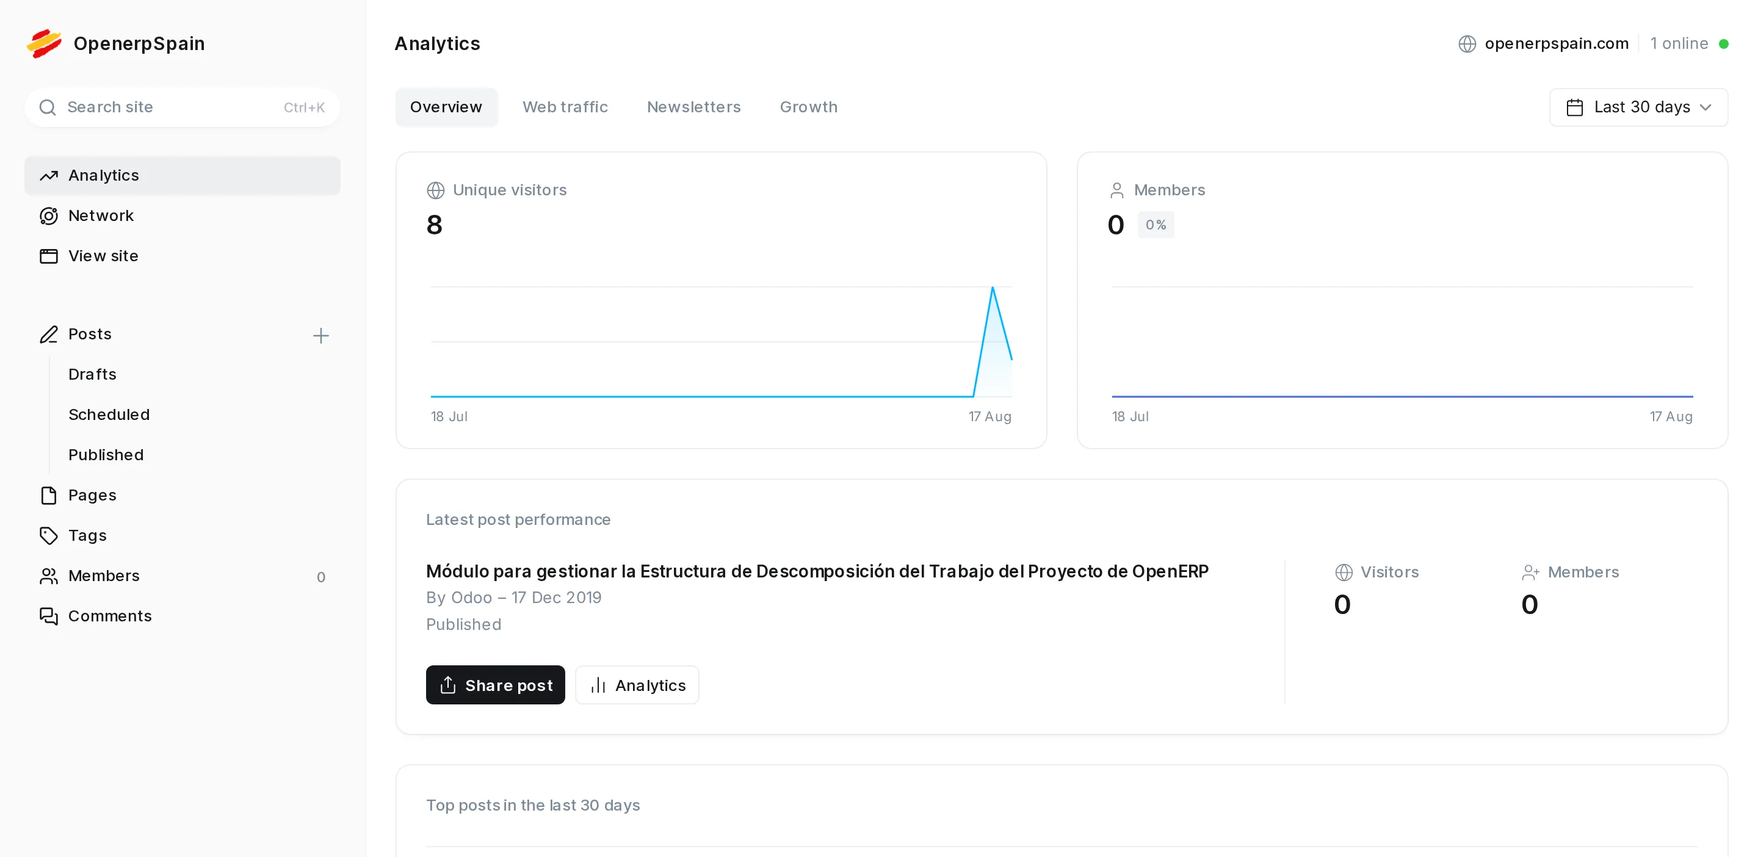
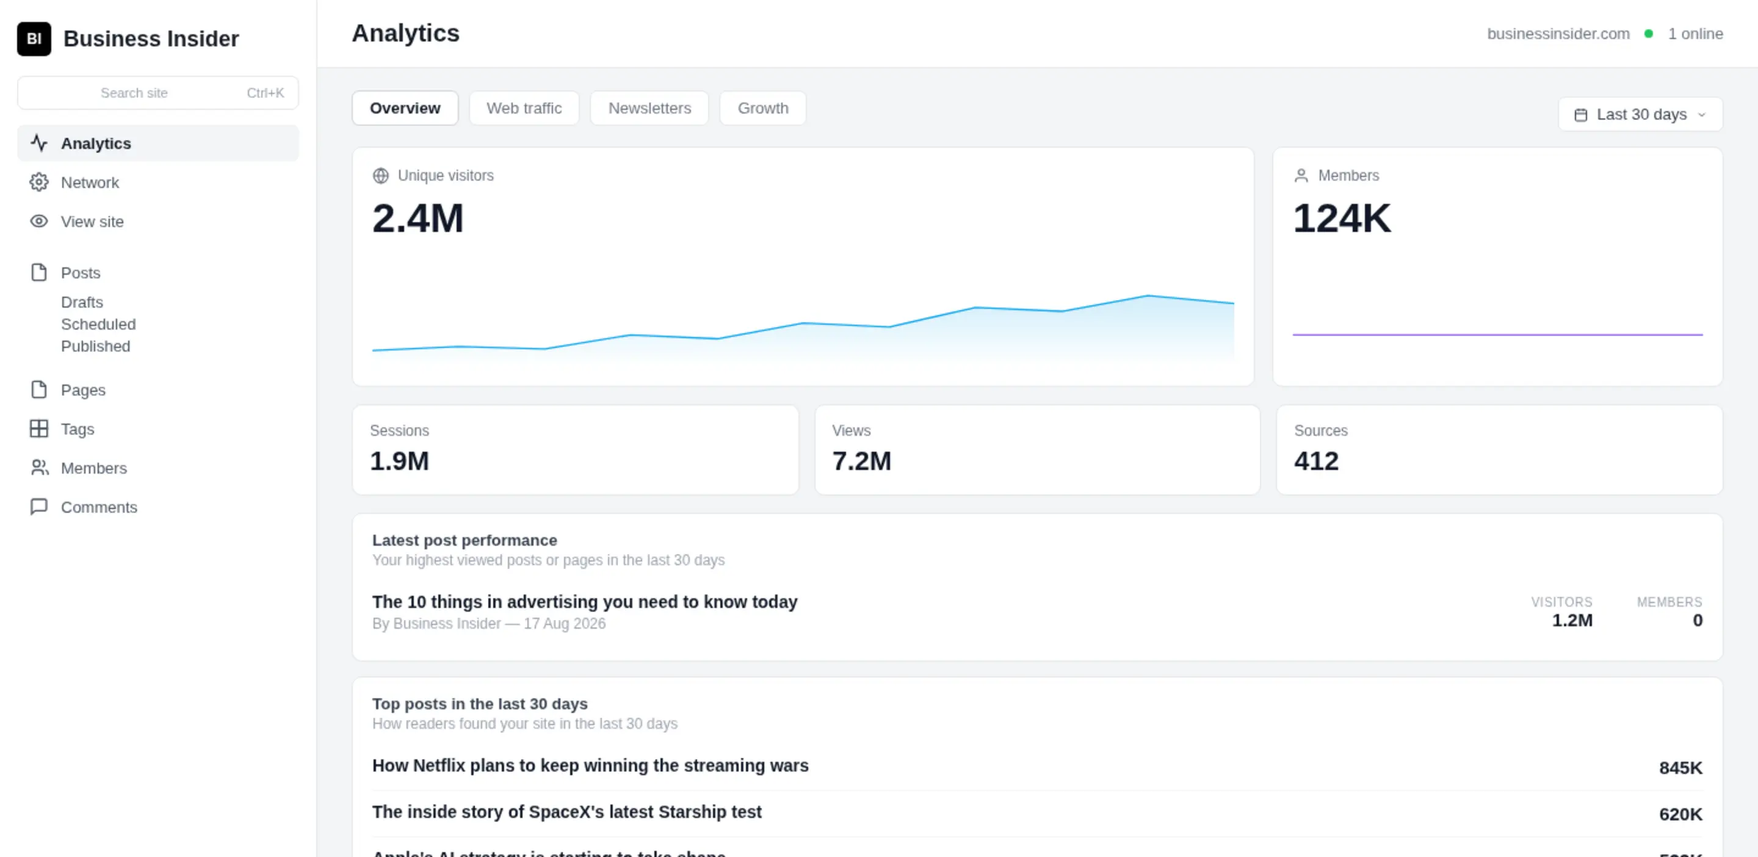
feat(landing): Business Insider screenshot, SEO copy and design polish
* feat(landing): single Wikipedia screenshot and remove empty field-note slots

* fix(landing): sync default fallback text with i18n for Wikipedia screenshot

* style(landing): horizontal section layout, centered FAQ, wider install card

* chore(landing): bump asset cache-bust to v5

* feat(landing): SEO titles and descriptions for tinybird alternative / ghost analytics keywords

* feat(landing): screenshot and copy now show Business Insider dashboard

* docs(readme): mark v0.5.0 released and link to live landing

---------

diff --git a/landing/index.html b/landing/index.html
@@ -3,8 +3,8 @@
 <head>
   <meta charset="UTF-8" />
   <meta name="viewport" content="width=device-width, initial-scale=1.0" />
-  <title>GhostBird: recambio libre y autoalojado de Tinybird para Ghost</title>
-  <meta name="description" content="Pieza de sustitución autoalojada para las estadísticas nativas de Ghost 6.x. Un binario Go, un fichero SQLite, AGPL-3.0 y cero telemetría." />
+  <title>GhostBird: alternativa libre y autoalojada a Tinybird para Ghost</title>
+  <meta name="description" content="Reemplazo abierto y autoalojado para las estadísticas nativas de Ghost 6.x. Alternativa a Tinybird con un binario Go, SQLite y AGPL-3.0. Sin telemetría." />
   <meta name="theme-color" content="#0B1020" />
   <meta name="robots" content="index, follow" />
   <link rel="canonical" href="https://ghostbird.cloudless.club/" />
@@ -13,8 +13,8 @@
   <link rel="alternate" hreflang="x-default" href="https://ghostbird.cloudless.club/" />
   <meta property="og:type" content="website" />
   <meta property="og:site_name" content="GhostBird" />
-  <meta property="og:title" content="GhostBird: recambio libre y autoalojado de Tinybird para Ghost" />
-  <meta property="og:description" content="Pieza de sustitución autoalojada para las estadísticas nativas de Ghost 6.x. Un binario Go, un fichero SQLite, AGPL-3.0 y cero telemetría." />
+  <meta property="og:title" content="GhostBird: alternativa libre y autoalojada a Tinybird para Ghost" />
+  <meta property="og:description" content="Reemplazo abierto y autoalojado para las estadísticas nativas de Ghost 6.x. Alternativa a Tinybird con un binario Go, SQLite y AGPL-3.0. Sin telemetría." />
   <meta property="og:url" content="https://ghostbird.cloudless.club/" />
   <meta property="og:image" content="https://ghostbird.cloudless.club/assets/og.png" />
   <meta property="og:image:width" content="1200" />
@@ -23,14 +23,14 @@
   <meta property="og:locale" content="es_ES" />
   <meta property="og:locale:alternate" content="en_US" />
   <meta name="twitter:card" content="summary_large_image" />
-  <meta name="twitter:title" content="GhostBird: recambio libre y autoalojado de Tinybird para Ghost" />
-  <meta name="twitter:description" content="Pieza de sustitución autoalojada para las estadísticas nativas de Ghost 6.x. Un binario Go, un fichero SQLite, AGPL-3.0 y cero telemetría." />
+  <meta name="twitter:title" content="GhostBird: alternativa libre y autoalojada a Tinybird para Ghost" />
+  <meta name="twitter:description" content="Reemplazo abierto y autoalojado para las estadísticas nativas de Ghost 6.x. Alternativa a Tinybird con un binario Go, SQLite y AGPL-3.0. Sin telemetría." />
   <meta name="twitter:image" content="https://ghostbird.cloudless.club/assets/og.png" />
   <link rel="icon" type="image/svg+xml" href="assets/favicon.svg" />
   <link rel="preconnect" href="https://fonts.googleapis.com" />
   <link rel="preconnect" href="https://fonts.gstatic.com" crossorigin />
   <link href="https://fonts.googleapis.com/css2?family=Sora:wght@600;700;800&family=Inter:wght@400;500;600&display=swap" rel="stylesheet" />
-  <link rel="stylesheet" href="styles.css?v=3" />
+  <link rel="stylesheet" href="styles.css?v=6" />
   <script type="application/ld+json">
   {
     "@context": "https://schema.org",
@@ -63,16 +63,7 @@
         "url": "https://ghostbird.cloudless.club/assets/shots/dashboard.webp",
         "width": 2880,
         "height": 1404,
-        "caption": "Overview: visitors, sessions y fuentes, del dashboard nativo de Ghost alimentado por GhostBird en producción"
-      },
-      {
-        "@type": "ImageObject",
-        "name": "Ghost dashboard web traffic fed by GhostBird",
-        "contentUrl": "https://ghostbird.cloudless.club/assets/shots/webtraffic.webp",
-        "url": "https://ghostbird.cloudless.club/assets/shots/webtraffic.webp",
-        "width": 2880,
-        "height": 1404,
-        "caption": "Web traffic: audiencias y desglose, del dashboard nativo de Ghost alimentado por GhostBird en producción"
+        "caption": "Overview: unique visitors, sessions, sources and top posts for Business Insider, from the native Ghost dashboard fed by GhostBird"
       },
       {
         "@type": "FAQPage",
@@ -179,7 +170,7 @@
         <div class="hero-copy">
           <p class="eyebrow-pill" data-reveal><span class="pulse-dot" aria-hidden="true"></span><span data-i18n="hero.eyebrow">Self-hosted · AGPL-3.0</span></p>
           <h1 class="hero-title" data-reveal><span data-i18n="hero.h1a">Estadísticas de Ghost,</span> <span class="grad-text" data-i18n="hero.h1g">autoalojadas</span></h1>
-          <p class="hero-sub" data-i18n="hero.sub" data-reveal>Sustituye al cloud propietario detrás de las estadísticas de Ghost 6: un binario Go, un fichero SQLite y el dashboard de siempre, leyendo de tu servidor.</p>
+          <p class="hero-sub" data-i18n="hero.sub" data-reveal>Sustituye al cloud propietario detrás de las estadísticas de Ghost 6: alternativa libre y autoalojada a Tinybird, con un binario Go, SQLite y el dashboard de siempre.</p>
           <div class="cta-row" data-reveal>
             <a class="btn btn-primary" href="#install"><span data-i18n="hero.cta1">Instalar</span><svg class="icon" aria-hidden="true"><use href="#i-arrow"/></svg></a>
             <a class="btn btn-ghost" href="#how" data-i18n="hero.cta2">Cómo funciona</a>
@@ -322,32 +313,20 @@
       <div class="sec-head">
         <p class="eyebrow" data-i18n="gallery.eyebrow">Así se ve</p>
         <h2 id="gal-title" data-i18n="gallery.title">No es un mockup</h2>
-        <p class="gal-sub" data-i18n="gallery.sub">Estas capturas salen del dashboard nativo de Ghost (Ghost 6.57) de un sitio real en producción, alimentado por GhostBird. Sin retoques.</p>
+        <p class="gal-sub" data-i18n="gallery.sub">Captura del panel nativo de Ghost (Ghost 6.57) alimentado por GhostBird, simulando datos de Business Insider: 2,4 M de visitantes únicos, sesiones, fuentes y posts destacados.</p>
       </div>
       <div class="shots-grid" data-reveal-group>
         <figure class="shot-card glass" data-reveal>
           <div class="shot-bar">
             <span class="mock-dots" aria-hidden="true"><i></i><i></i><i></i></span>
-            <span class="shot-domain mono">ghost.openerpspain.com</span>
+            <span class="shot-domain mono">businessinsider.com</span>
             <span class="shot-zoom" aria-hidden="true"><svg class="icon"><use href="#i-maximize"/></svg></span>
           </div>
           <button class="shot-btn" type="button" data-shot="dashboard" aria-label="Ampliar la captura: overview" data-i18n-aria="gallery.open1">
-            <img data-src="assets/shots/dashboard.webp" alt="Captura del dashboard de Ghost: overview con visitantes únicos, sesiones y fuentes de tráfico" data-i18n-alt="gallery.alt1" width="1440" height="702" loading="lazy" decoding="async">
-            <noscript><style>.shot-btn img[data-src]{display:none}</style><img src="assets/shots/dashboard.webp" alt="Captura del dashboard de Ghost: overview con visitantes únicos, sesiones y fuentes de tráfico" width="1440" height="702" loading="lazy"></noscript>
+            <img data-src="assets/shots/dashboard.webp" alt="Captura del dashboard de Ghost: overview con 2,4 M de visitantes únicos, sesiones y fuentes de tráfico de Business Insider" data-i18n-alt="gallery.alt1" width="1440" height="702" loading="lazy" decoding="async">
+            <noscript><style>.shot-btn img[data-src]{display:none}</style><img src="assets/shots/dashboard.webp" alt="Captura del dashboard de Ghost: overview con 2,4 M de visitantes únicos, sesiones y fuentes de tráfico de Business Insider" width="1440" height="702" loading="lazy"></noscript>
           </button>
-          <figcaption data-i18n="gallery.cap1">Overview: visitors, sessions y fuentes</figcaption>
-        </figure>
-        <figure class="shot-card glass" data-reveal>
-          <div class="shot-bar">
-            <span class="mock-dots" aria-hidden="true"><i></i><i></i><i></i></span>
-            <span class="shot-domain mono">ghost.openerpspain.com</span>
-            <span class="shot-zoom" aria-hidden="true"><svg class="icon"><use href="#i-maximize"/></svg></span>
-          </div>
-          <button class="shot-btn" type="button" data-shot="webtraffic" aria-label="Ampliar la captura: web traffic" data-i18n-aria="gallery.open2">
-            <img data-src="assets/shots/webtraffic.webp" alt="Captura del dashboard de Ghost: web traffic con audiencias y desglose por fuente" data-i18n-alt="gallery.alt2" width="1440" height="702" loading="lazy" decoding="async">
-            <noscript><style>.shot-btn img[data-src]{display:none}</style><img src="assets/shots/webtraffic.webp" alt="Captura del dashboard de Ghost: web traffic con audiencias y desglose por fuente" width="1440" height="702" loading="lazy"></noscript>
-          </button>
-          <figcaption data-i18n="gallery.cap2">Web traffic: audiencias y desglose</figcaption>
+          <figcaption data-i18n="gallery.cap1">Overview: visitantes, sesiones y fuentes de Business Insider</figcaption>
         </figure>
       </div>
     </section>
@@ -362,21 +341,6 @@
         <div class="stat glass" data-reveal><span class="stat-num-wrap"><span aria-hidden="true">&lt;</span><span class="stat-num" data-target="10">10</span><span aria-hidden="true">MB</span></span><span class="stat-label" data-i18n="st.4">de RAM medidos en producción</span></div>
         <div class="stat glass" data-reveal><span class="stat-num" data-target="0">0</span><span class="stat-label" data-i18n="st.5">conexiones salientes</span></div>
         <div class="stat glass" data-reveal><span class="stat-num-wrap"><span class="stat-num" data-target="100">100</span><span aria-hidden="true">%</span></span><span class="stat-label" data-i18n="st.6">suite de tests del original, en verde</span></div>
-      </div>
-    </section>
-
-    <!-- SLOT 1: ideas del propietario (tras stats) -->
-    <!--
-      SLOT DE CONTENIDO 1 (data-slot="field-notes-1")
-      Hueco reservado para las ideas de temas del propietario.
-      Para rellenar: sustituir el párrafo interior por el contenido final
-      (unos 2 párrafos o una lista) manteniendo la clase .slot. Borrar este
-      comentario al rellenar.
-    -->
-    <section class="sec slot" data-slot="field-notes-1" id="notas-1">
-      <div class="slot-card glass" data-reveal>
-        <h2 class="slot-tag" data-i18n="slotA.tag">Espacio reservado · Notas de campo 1</h2>
-        <p class="slot-ph" data-i18n="slotA.p">Hueco para el contenido que decida el propietario: temas, casos y observaciones.</p>
       </div>
     </section>
 
@@ -508,19 +472,6 @@
       </div>
     </section>
 
-    <!-- SLOT 2: ideas del propietario (tras FAQ) -->
-    <!--
-      SLOT DE CONTENIDO 2 (data-slot="field-notes-2")
-      Segundo hueco para temas del propietario, antes del CTA final.
-      Misma mecánica que el slot 1.
-    -->
-    <section class="sec slot" data-slot="field-notes-2" id="notas-2">
-      <div class="slot-card glass" data-reveal>
-        <h2 class="slot-tag" data-i18n="slotB.tag">Espacio reservado · Notas de campo 2</h2>
-        <p class="slot-ph" data-i18n="slotB.p">Segundo hueco para el contenido que decida el propietario.</p>
-      </div>
-    </section>
-
     <!-- 10. CTA final -->
     <section class="sec install-band" id="install">
       <div class="install-card glass" data-reveal>
@@ -591,7 +542,7 @@
     </figure>
   </div>
 
-  <script src="i18n.js?v=3"></script>
-  <script src="app.js?v=3"></script>
+  <script src="i18n.js?v=6"></script>
+  <script src="app.js?v=6"></script>
 </body>
 </html>

diff --git a/landing/i18n.js b/landing/i18n.js
@@ -1,8 +1,8 @@
 /* GhostBird landing: i18n ES/EN (tema Luminex) */
 const I18N = {
   es: {
-    "meta.title": "GhostBird: recambio libre y autoalojado de Tinybird para Ghost",
-    "meta.desc": "Pieza de sustitución autoalojada para las estadísticas nativas de Ghost 6.x. Un binario Go, un fichero SQLite, AGPL-3.0 y cero telemetría.",
+    "meta.title": "GhostBird: alternativa libre y autoalojada a Tinybird para Ghost",
+    "meta.desc": "Reemplazo abierto y autoalojado para las estadísticas nativas de Ghost 6.x. Alternativa a Tinybird con un binario Go, SQLite y AGPL-3.0. Sin telemetría.",
     "misc.skip": "Saltar al contenido",
     "misc.copied": "Copiado",
     "brand": "GhostBird",
@@ -16,7 +16,7 @@ const I18N = {
     "hero.eyebrow": "Self-hosted · AGPL-3.0",
     "hero.h1a": "Estadísticas de Ghost,",
     "hero.h1g": "autoalojadas",
-    "hero.sub": "Sustituye al cloud propietario detrás de las estadísticas de Ghost 6: un binario Go, un fichero SQLite y el dashboard de siempre, leyendo de tu servidor.",
+    "hero.sub": "Sustituye al cloud propietario detrás de las estadísticas de Ghost 6: alternativa libre y autoalojada a Tinybird, con un binario Go, SQLite y el dashboard de siempre.",
     "hero.cta1": "Instalar",
     "hero.cta2": "Cómo funciona",
     "mock.header": "Ghost · Panel de estadísticas",
@@ -59,13 +59,10 @@ const I18N = {
     "how.note1": "// el mismo que -admin-token",
     "gallery.eyebrow": "Así se ve",
     "gallery.title": "No es un mockup",
-    "gallery.sub": "Estas capturas salen del dashboard nativo de Ghost (Ghost 6.57) de un sitio real en producción, alimentado por GhostBird. Sin retoques.",
-    "gallery.cap1": "Overview: visitors, sessions y fuentes",
-    "gallery.cap2": "Web traffic: audiencias y desglose",
-    "gallery.alt1": "Captura del dashboard de Ghost: overview con visitantes únicos, sesiones y fuentes de tráfico",
-    "gallery.alt2": "Captura del dashboard de Ghost: web traffic con audiencias y desglose por fuente",
-    "gallery.open1": "Ampliar la captura: overview",
-    "gallery.open2": "Ampliar la captura: web traffic",
+    "gallery.sub": "Captura del panel nativo de Ghost (Ghost 6.57) alimentado por GhostBird, simulando datos de Business Insider: 2,4 M de visitantes únicos, sesiones, fuentes y posts destacados.",
+    "gallery.cap1": "Overview: visitantes, sesiones y fuentes de Business Insider",
+    "gallery.alt1": "Captura del dashboard de Ghost: overview con 2,4 M de visitantes únicos, sesiones y fuentes de tráfico de Business Insider",
+    "gallery.open1": "Ampliar la captura: overview de Business Insider",
     "gallery.lb": "Captura ampliada",
     "gallery.close": "Cerrar",
     "st.sronly": "Cifras de GhostBird",
@@ -75,8 +72,6 @@ const I18N = {
     "st.4": "de RAM medidos en producción",
     "st.5": "conexiones salientes",
     "st.6": "suite de tests del original, en verde",
-    "slotA.tag": "Espacio reservado · Notas de campo 1",
-    "slotA.p": "Hueco para el contenido que decida el propietario: temas, casos y observaciones.",
     "stt.a": "El panel de analytics que",
     "stt.g": "ya tienes",
     "stt.b": ", alimentado por tu servidor.",
@@ -113,8 +108,6 @@ const I18N = {
     "faq.a4": "Diarios, con VACUUM INTO y verificación quick_check, con rotación de 14 días. /healthz incluye una sonda de escritura que responde 503 si la base de datos deja de admitir escrituras, con el disco lleno incluido.",
     "faq.q5": "¿Qué licencia tiene?",
     "faq.a5": "AGPL-3.0, para siempre. Sin tier de pago ni funciones cerradas. Si lo modificas y lo sirves en un servidor público, comparte los cambios.",
-    "slotB.tag": "Espacio reservado · Notas de campo 2",
-    "slotB.p": "Segundo hueco para el contenido que decida el propietario.",
     "inst.eyebrow": "Instalación",
     "inst.title": "Instala GhostBird hoy",
     "inst.p": "El instalador crea un usuario dedicado, una unit de systemd endurecida y un token aleatorio que se muestra una sola vez. Después, dos URLs en la config de Ghost y a correr.",
@@ -133,8 +126,8 @@ const I18N = {
   },
 
   en: {
-    "meta.title": "GhostBird: self-hosted Tinybird replacement for Ghost",
-    "meta.desc": "A drop-in replacement for the native analytics of Ghost 6.x. One Go binary, one SQLite file, AGPL-3.0 and zero telemetry.",
+    "meta.title": "GhostBird: open source Tinybird alternative for Ghost analytics",
+    "meta.desc": "Open-source, self-hosted drop-in replacement for Ghost 6 native analytics. One Go binary, one SQLite file, AGPL-3.0. A Tinybird alternative with zero telemetry.",
     "misc.skip": "Skip to content",
     "misc.copied": "Copied",
     "brand": "GhostBird",
@@ -148,7 +141,7 @@ const I18N = {
     "hero.eyebrow": "Self-hosted · AGPL-3.0",
     "hero.h1a": "Ghost analytics,",
     "hero.h1g": "self-hosted",
-    "hero.sub": "It replaces the proprietary cloud behind Ghost 6 analytics: one Go binary, one SQLite file, and the same dashboard, now reading from your server.",
+    "hero.sub": "It replaces the proprietary cloud behind Ghost 6 analytics: an open source Tinybird alternative, with one Go binary, one SQLite file, and the same dashboard.",
     "hero.cta1": "Install",
     "hero.cta2": "How it works",
     "mock.header": "Ghost · Analytics panel",
@@ -191,13 +184,10 @@ const I18N = {
     "how.note1": "// same as -admin-token",
     "gallery.eyebrow": "How it looks",
     "gallery.title": "Not a mockup",
-    "gallery.sub": "These screenshots come from the native Ghost dashboard (Ghost 6.57) of a real production site, fed by GhostBird. No retouching.",
-    "gallery.cap1": "Overview: visitors, sessions and sources",
-    "gallery.cap2": "Web traffic: audiences and breakdown",
-    "gallery.alt1": "Screenshot of the Ghost dashboard: overview with unique visitors, sessions and traffic sources",
-    "gallery.alt2": "Screenshot of the Ghost dashboard: web traffic with audiences and source breakdown",
-    "gallery.open1": "Enlarge the screenshot: overview",
-    "gallery.open2": "Enlarge the screenshot: web traffic",
+    "gallery.sub": "Screenshot from the native Ghost dashboard (Ghost 6.57) fed by GhostBird, simulating Business Insider data: 2.4M unique visitors, sessions, sources and top posts.",
+    "gallery.cap1": "Overview: visitors, sessions and sources for Business Insider",
+    "gallery.alt1": "Screenshot of the Ghost dashboard: overview with 2.4M unique visitors, sessions and traffic sources for Business Insider",
+    "gallery.open1": "Enlarge the screenshot: Business Insider overview",
     "gallery.lb": "Enlarged screenshot",
     "gallery.close": "Close",
     "st.sronly": "GhostBird numbers",
@@ -207,8 +197,6 @@ const I18N = {
     "st.4": "RAM measured in production",
     "st.5": "outbound connections",
     "st.6": "of the original's test suite, green",
-    "slotA.tag": "Reserved space · Field notes 1",
-    "slotA.p": "Hole for content the owner decides: topics, cases and observations.",
     "stt.a": "The analytics panel",
     "stt.g": "you already have",
     "stt.b": ", fed by your server.",
@@ -245,8 +233,6 @@ const I18N = {
     "faq.a4": "Daily, with VACUUM INTO and a quick_check verification, rotated for 14 days. /healthz includes a write probe that answers 503 when the database stops accepting writes, including a full disk.",
     "faq.q5": "What license is it under?",
     "faq.a5": "AGPL-3.0, forever. No paid tier, no closed features. If you modify it and serve it on a public server, share your changes.",
-    "slotB.tag": "Reserved space · Field notes 2",
-    "slotB.p": "Second hole for content the owner decides.",
     "inst.eyebrow": "Installation",
     "inst.title": "Install GhostBird today",
     "inst.p": "The installer creates a dedicated user, a hardened systemd unit and a random token shown exactly once. Then, two URLs in Ghost's config and you are done.",

diff --git a/landing/styles.css b/landing/styles.css
@@ -963,6 +963,29 @@ section[id] { scroll-margin-top: 86px; }
   .who-grid { grid-template-columns: repeat(4, 1fr); }
 }
 
+/* ---------- Twin layout: features & who share a horizontal reading line on desktop ---------- */
+
+@media (min-width: 980px) {
+  #features,
+  #who {
+    display: grid;
+    grid-template-columns: minmax(230px, 0.92fr) 2fr;
+    gap: 44px;
+    align-items: start;
+  }
+
+  #features .sec-head,
+  #who .sec-head {
+    max-width: none;
+    margin-bottom: 0;
+  }
+
+  #features .feat-grid,
+  #who .who-grid {
+    margin-top: 0;
+  }
+}
+
 /* ---------- FAQ ---------- */
 
 .faq-list {
@@ -971,6 +994,8 @@ section[id] { scroll-margin-top: 86px; }
   display: grid;
   gap: 12px;
 }
+
+#faq .sec-head { text-align: center; margin-left: auto; margin-right: auto; }
 
 .faq-item { overflow: hidden; }
 
@@ -1044,6 +1069,10 @@ section[id] { scroll-margin-top: 86px; }
   padding: 40px 26px;
   text-align: center;
   box-shadow: var(--shadow);
+}
+
+@media (min-width: 1440px) {
+  .install-card { max-width: 980px; }
 }
 
 .install-card h2 {

diff --git a/landing/app.js b/landing/app.js
@@ -285,8 +285,7 @@
 
   /* ---------- Lightbox de capturas ---------- */
   var SHOTS = {
-    dashboard: { file: 'assets/shots/dashboard.webp', alt: 'gallery.alt1', cap: 'gallery.cap1' },
-    webtraffic: { file: 'assets/shots/webtraffic.webp', alt: 'gallery.alt2', cap: 'gallery.cap2' }
+    dashboard: { file: 'assets/shots/dashboard.webp', alt: 'gallery.alt1', cap: 'gallery.cap1' }
   };
   var lightbox = document.getElementById('lightbox');
   var lbImg = document.getElementById('lbImg');

diff --git a/README.es.md b/README.es.md
@@ -4,6 +4,8 @@ Drop-in replacement **self-hosted de Tinybird** para las estadísticas nativas d
 Filosofía GoatCounter: **un binario Go + un fichero SQLite + cero configuración obligatoria**.
 Ghost sigue creyendo que habla con Tinybird; solo cambias la URL de conexión.
 
+**Landing pública:** [ghostbird.cloudless.club](https://ghostbird.cloudless.club/) — capturas, resumen de funciones e instalador one-liner.
+
 ```
 ┌──────────────┐  1. page_hit   ┌────────────────────────────┐        ┌──────────────────┐
 │ Visitante    │───────────────►│  GhostBird (Go, 1 binario) │───────►│ SQLite (default) │
@@ -56,7 +58,7 @@ lo auto-firma Ghost con un secreto compartido, y la entrega es at-least-once (de
 | 2. Pipes lectura | ✅ Completada | 13 pipes v1 + JWT HS256 scoped + `filtered_sessions` en SQLite. **Tests de fidelidad: la suite YAML oficial de Tinybird pasa entera contra el mismo fixture.** |
 | 3. Integración Ghost | ✅ Completada | Verificado end-to-end con Ghost 6.57.1 real: tracker en el HTML, page_hit del navegador real almacenado, JWT firmado por Ghost, dashboard Admin pintando "Unique visitors" y "online" desde GhostBird. |
 | 4. Robustez | 🔶 Esencial hecha | Job nocturno: purge de sales, retención configurable (`-retention-days`), backup diario verificado con VACUUM INTO + rotación 14 días (`-backup-dir`), `PRAGMA optimize`+checkpoint. Pendiente: rate limiting, métricas Prometheus, cobertura >70%. |
-| 5. Comunidad | ⬜ | README EN/ES, instalador one-liner, CI, licencia (a decidir), anuncio. |
+| 5. Comunidad | ✅ Completada | README EN/ES, instalador one-liner, licencia AGPL-3.0 y landing pública en [ghostbird.cloudless.club](https://ghostbird.cloudless.club/). Pendiente: CI y anuncio. |
 
 ## Deploy con Ghost real (verificado con Ghost 6.57.1)
 

diff --git a/README.md b/README.md
@@ -5,6 +5,8 @@ Ghost's native analytics.
 
 One Go binary. One SQLite file. Your analytics never leave your server.
 
+**Live landing page:** [ghostbird.cloudless.club](https://ghostbird.cloudless.club/) — screenshots, feature summary and the one-liner installer.
+
 **Status**: working end to end against Ghost 6.x (tested with Ghost
 6.57.1). See [Verified](#verified-against-the-real-thing). Licensed
 AGPL-3.0, forever.
@@ -242,7 +244,8 @@ lives in the commit history.
 
 ## Roadmap
 
-- Public repository and tagged releases (the installer ships already).
+- ✅ **v0.5.0 released** — public repository, tagged releases and a live landing page at [ghostbird.cloudless.club](https://ghostbird.cloudless.club/).
+- CI/CD workflows for tests and releases.
 - Optional PostgreSQL backend for very high traffic sites.
 - Rate limiting and per-site quotas in-process (nginx covers it today).
 - Localization of the (minimal) operator-facing strings.
